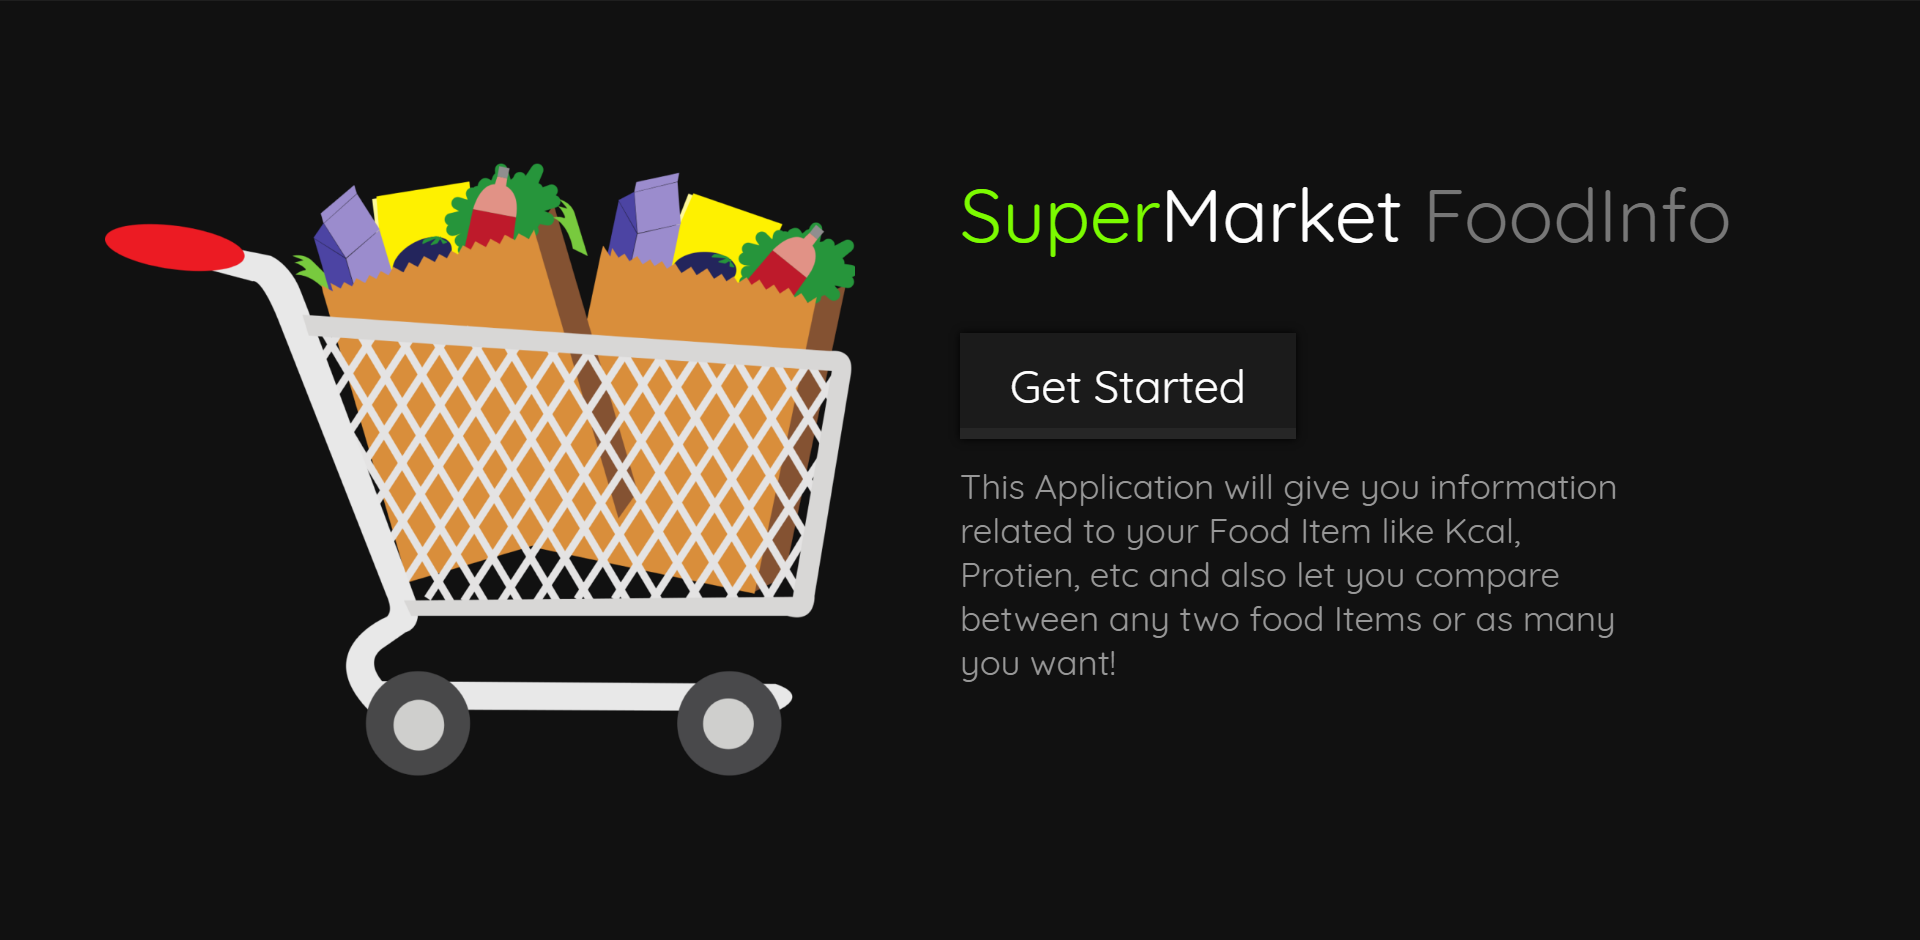
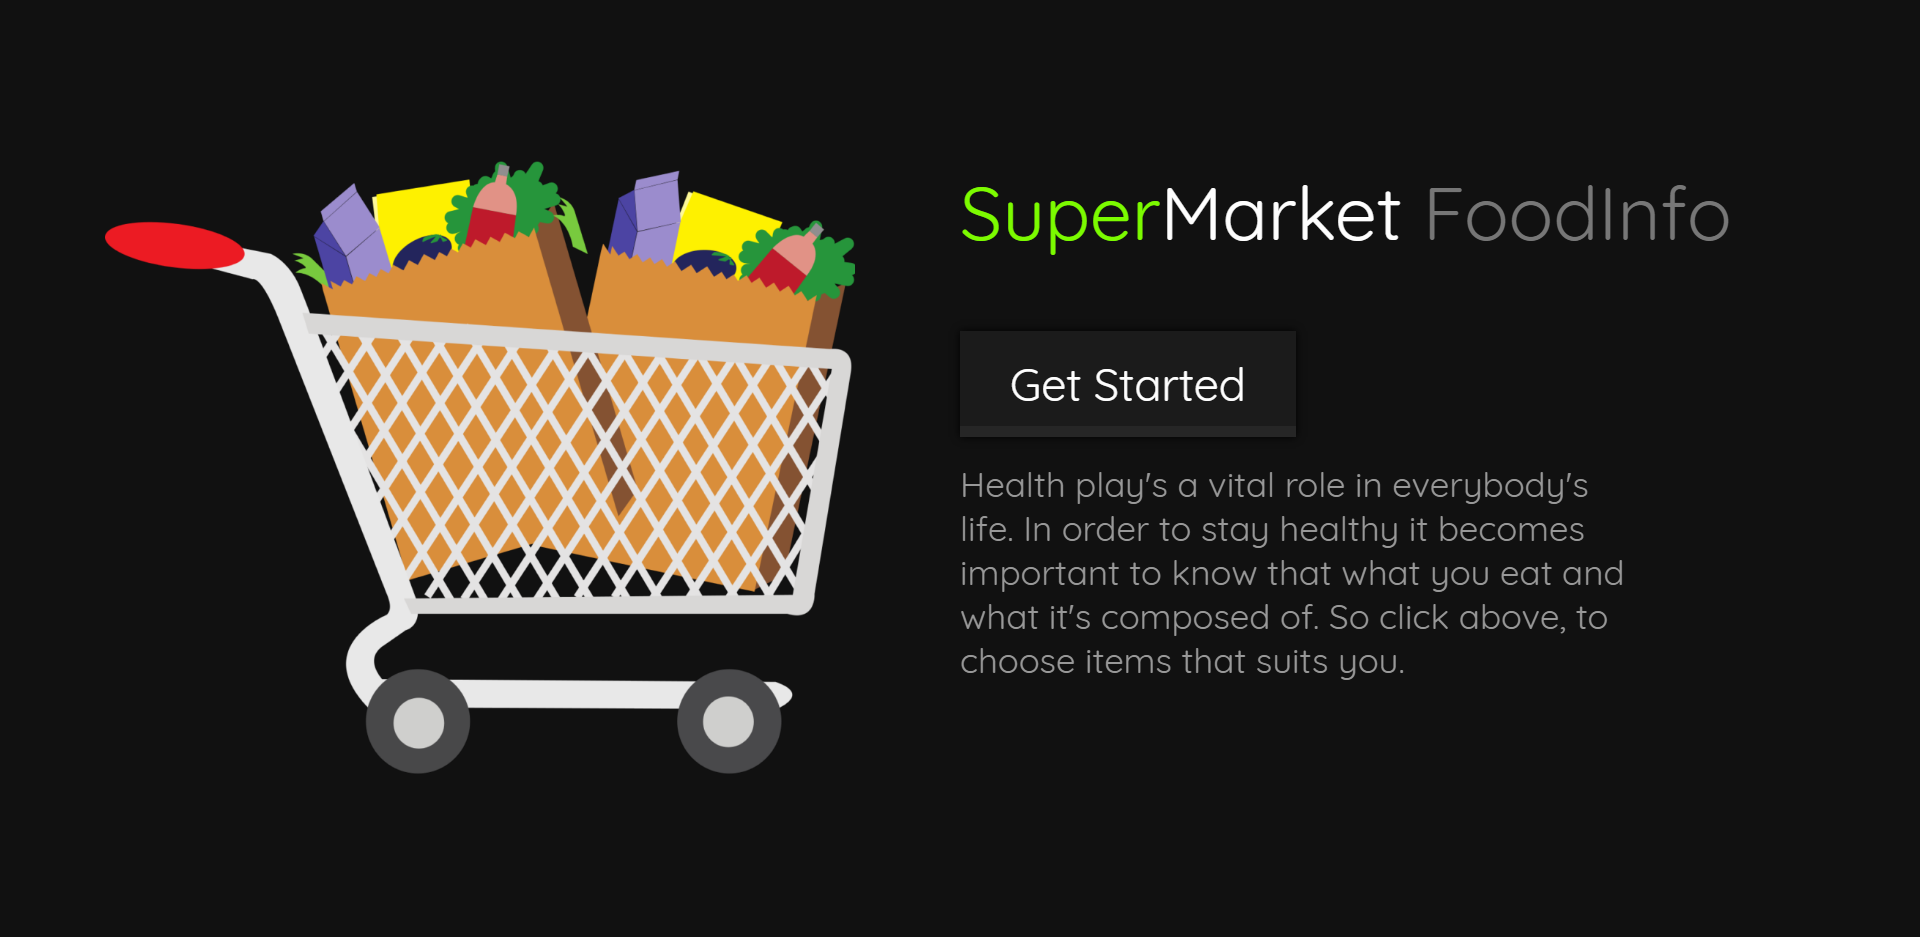
images added and working static projects.js

diff --git a/src/css/projects.scss b/src/css/projects.scss
@@ -12,13 +12,15 @@ $font-normal : 24px;
   // background: green;
 
   .project-wrapper{
+    // border: 1px solid #222;
+    font-size: 16px;
     position: relative;
     display: inline-block;
     margin: 20px;
-    background-color: #fff;
+    background-color: #222;
     color: #ddd;
     width:500px;
-    height: 350px;
+    // height: 350px;
     border-radius: 5px;
     overflow: hidden;
     box-shadow: 0 0 20px #000;
@@ -27,11 +29,14 @@ $font-normal : 24px;
       width: 100%;
       height: 30px;
       display: flex;
-      justify-content: space-between;
+      position: relative;
+      justify-content: center;
       align-items: center;
       background-image: linear-gradient(#ebebeb, #c5c5c5);
 
       .dots{
+        left:0;
+        position: absolute;
         width: 15%;
         display: flex;
         justify-content: space-evenly;
@@ -41,29 +46,170 @@ $font-normal : 24px;
           width : 15px;
           height: 15px;
           border-radius: 50%;
-          border: 1px solid #999;
         }
 
         div:nth-child(1){
-          background-color: tomato; 
+          background-color: tomato;
+          border: 1px solid rgb(255, 49, 12); 
         }
 
         div:nth-child(2){
-          background-color: rgb(255, 238, 0); 
+          background-color: rgb(255, 217, 0);
+          border: 1px solid rgb(255, 136, 0); 
         }
 
         div:nth-child(3){
-          background-color: rgb(42, 228, 42); 
+          background-color: rgb(17, 226, 17); 
+          border: 1px solid rgb(0, 182, 0);
+        }
+      }
+
+      .name{
+        color: #555;
+        // font-family: HelveticaNeue, 'Helvetica Neue', 'Lucida Grande', Arial, sans-serif;
+        font-weight: 900;
+      }
+    }
+
+    .project{
+      position: relative;
+      cursor: pointer;
+
+      img{
+        width:500px;
+        border-bottom: 2px solid #777;
+      }
+
+      .project-info{
+        position: absolute;
+        top:0;
+        left:0;
+        width: 100%;
+        height: 100%;
+        display: flex;
+        flex-direction: column;
+
+        .bg-up,.bg-down{
+          height: 50%;
+          width: 0%;
+          background-color: rgba(17, 17, 17, 0.95);
+          transition: all $eio 0.3s;
+        }
+
+        .bg-down{
+          align-self: flex-end;
+        }
+
+        .project-details{
+          position: absolute;
+          opacity: 0;
+          width: 100%;
+          height: 100%;
+          display: flex;
+          flex-direction: column;
+          // justify-content: space-evenly;
+          align-items: center;
+
+          .pd1{
+              display:flex;
+              justify-content: center;
+              align-items: center;
+              height: 33%;
+              
+              div{
+                text-transform: uppercase;
+                display: inline-block;
+                padding: 7px 15px;
+                box-sizing: border-box;
+                margin: 5px;
+                border-bottom: 3px solid #666;
+                background: #333;
+                box-shadow: 0 0 10px #000;
+              }
+              // font-size: 18px;
+          }
+
+          .pd2 {
+              display:flex;
+              justify-content: center;
+              align-items: center;
+              height: 34%;
+
+              div{
+                display: flex;
+                width: 80%;
+                justify-content: center;
+                flex-wrap: wrap;
+
+              span{
+                display: inline-block;
+                padding: 7px 15px;
+                box-sizing: border-box;
+                font-size: 14px;
+                margin: 5px;
+                // color: #999;
+                border-bottom: 3px solid #444;
+                background: #222;
+                box-shadow: 0 0 10px #000;
+              }
+            }
+          }
+
+          .pd3{
+            width: 30%;
+            display: flex;
+            height: 33%;
+            justify-content: space-evenly;
+            align-items: center;
+            
+            i {
+              display: inline-block;
+              position: relative;
+              padding: 12px 14px;
+              box-sizing: border-box;
+              font-size: 24px;
+              color: #ddd;
+              border-radius: 50%;
+              border-bottom: 3px solid #555;
+              background: #222;
+              box-shadow: 0 0 10px #000;
+              transition: all 0.3s;
+              overflow: hidden;
+            }
+
+            i::after{
+              content: 'i';
+              color: transparent;
+              position: absolute;
+              display: block;
+              width: 100%;
+              height:0%;
+              bottom:0;
+              left:0;
+              background: rgba(221, 221, 221, 0.151);
+              transition: all $eio 0.3s;
+            }
+            
+            i:hover{
+              &::after{
+                height: 100%;
+              }
+            }
+          }
         }
       }
     }
 
-    img{
-      width:500px;
-    }
-
     .project-desc{
-      
+      display: flex;
+      width: 100%;
+      justify-content: center;
+      align-items: center;
+      color: #999;
+
+      p{
+        width: 90%;
+      }
     }
     
     .label{
@@ -75,6 +221,14 @@ $font-normal : 24px;
       font-size: 20px;
       padding: 0px 35px;
       transform: translate(-30px,15px) rotate(-45deg);
+    }
+
+    &:hover{
+      .project-info{
+        .bg-up,.bg-down{
+          width: 100%;
+        }
+      }
     }
   }
 }

diff --git a/src/components/helper/data.js b/src/components/helper/data.js
@@ -52,53 +52,76 @@ export const set2 = [
 
 export const keywords = ['Show All','Web','React','CSS', 'SCSS', 'SVG', 'Animations', 'Node', 'Web Sockets', 'MongoDB', 'GraphQL', 'Mobile', 'ReactNative', 'C++', 'NASM'];
 
-const projects = [
+import roomChatImg from '../../images/chat.PNG';
+import superMarketImg from '../../images/sp.png';
+import orderMeImg from '../../images/order_me.PNG';
+import timeTrackerImg from '../../images/time-tracker.PNG';
+import PiecesImage from '../../images/10_pieces.PNG';
+import chemAssisImage from '../../images/chem_assis.png';
+
+export const projects = [
   {
     name : 'Portfolio',
+    imgUrl:'',
     keywords : ['Web', 'React', 'SCSS', 'SVG', 'Animations', 'Node'],
     link : '',
-    gitUrl : ''
+    gitUrl : '',
+    desc : ''
   },
   {
     name : 'Blog',
+    imgUrl : '',
     keywords : ['Web', 'React', 'SCSS', 'SVG', 'Animations', 'Node'],
     link : '',
-    gitUrl : ''
+    gitUrl : '',
+    desc : ''
   },
   {
     name : 'Room_Chat',
+    imgUrl : roomChatImg,
     keywords : ['Web', 'CSS', 'Node', 'Web Sockets'],
-    link: '',
-    gitUrl : ''
+    link: 'https://room-chatx.herokuapp.com/',
+    gitUrl : 'https://github.com/AwesomeChap/Room_Chat',
+    desc : "A Chat App build to provide room like experience to group of people while conversing with each other"
   },
   {
-    name : 'Time Tracker',                                            
+    name : 'Time Tracker',    
+    imgUrl : timeTrackerImg,                                        
     keywords : ['Web', 'SCSS', 'Node', 'React', 'MongoDB'],
-    link: '',
-    gitUrl : ''
+    link: 'https://mern-time-tracker.herokuapp.com',
+    gitUrl : 'https://github.com/AwesomeChap/MERN-Time-Tracker',
+    desc : "A Time Tracking App demonstrating full CRUD functionality using MERN stack"
   },
   {
-    name : 'Food Info',
+    name : 'SuperMarket FoodInfo',
+    imgUrl : superMarketImg,
     keywords : ['Web', 'SCSS', 'Node', 'React', 'MongoDB'],
-    link: '',
-    gitUrl : ''
+    link: 'https://supermarket-foodinfo.herokuapp.com/',
+    gitUrl : 'https://github.com/AwesomeChap/supermarket',
+    desc : "A WebApp that let's you see important details of selected food items and then compare it's with others"
   },
   {
     name : '10_Pieces',
+    imgUrl : PiecesImage,
     keywords : ['Web', 'CSS'],
-    link: '',
-    gitUrl : ''
+    link: 'https://awesomechap.github.io/10-Pieces/.',
+    gitUrl : 'https://github.com/AwesomeChap/10-Pieces',
+    desc : "A web demonstration showing power of pure CSS"
   },
   {
     name : 'Chem Assis',
+    imgUrl : chemAssisImage,
     keywords : ['C++'],
     link: '',
-    gitUrl : ''
+    gitUrl : 'https://github.com/AwesomeChap/chem_assistant',
+    desc : "A C++ program helping in saving elements and then if you wish you can search, modify or even delete them"
   },
   {
     name : 'Order Me',
+    imgUrl : orderMeImg,
     keywords : ['NASM'],
     link: '',
-    gitUrl : ''
+    gitUrl : 'https://github.com/AwesomeChap/Order_me',
+    desc : "An application made using assembly language, converting blank file to ordered sentences"
   }
 ]

diff --git a/src/components/projects.js b/src/components/projects.js
@@ -138,13 +138,30 @@ export default class Projects extends Component{
                         <div className="dots">
                           <div></div> <div></div> <div></div>
                         </div>
-                        <div className="name"></div>
+                        <div className="name">SuperMarket FoodInfo</div>
                       </div>
                     <div className="project">
                       <img src={superMarketImage} alt=""/>
+                      <div className="project-info">
+                        <div className="bg-up"></div>
+                        <div className="bg-down"></div>
+                        <div className="project-details">
+                          <div className="pd1"> <div>Technologies Used</div> </div>
+                          <div className="pd2">
+                            <div>
+                              <span>React</span> <span>Node</span> <span>CSS</span> <span>SCSS</span> <span>MongoDB</span>
+                            </div>
+                           </div>
+                          <div className="pd3">
+                            <a href="" target="_blank"><i class="fas fa-share"></i></a>
+                            <a href="" target="_blank"><i class="fab fa-github"></i></a>
+                          </div>
+                        </div>
+                      </div>
                     </div>
-                    <div className="project-desc"></div>
-                    {/* <div className="project-info"></div> */}
+                    <div className="project-desc">
+                      <p>A WebApp that let's you see important details of selected food items and then compare it's with others</p>
+                    </div>
                   </div>
                 </div>
             </div>

diff --git a/src/components/helper/project.js b/src/components/helper/project.js
@@ -1,0 +1,16 @@
+import React, {Component} from 'react'
+import '../../css/projects.scss';
+import {projects} from './data';
+
+
+export default class Project extends Component{
+  constructor(props){
+    super(props);
+    this.state = {};
+  }
+  render(){
+    return(
+      // projects
+    );
+  }
+}

diff --git a/src/css/heading.scss b/src/css/heading.scss
@@ -15,7 +15,7 @@ $red : #ff0d2d;
   left: 0;
   width:100%;
   height: 100%;
-  background: #222;
+  background: #1c1c1c;
   box-shadow: 0 0 10px #000;
 }
 
